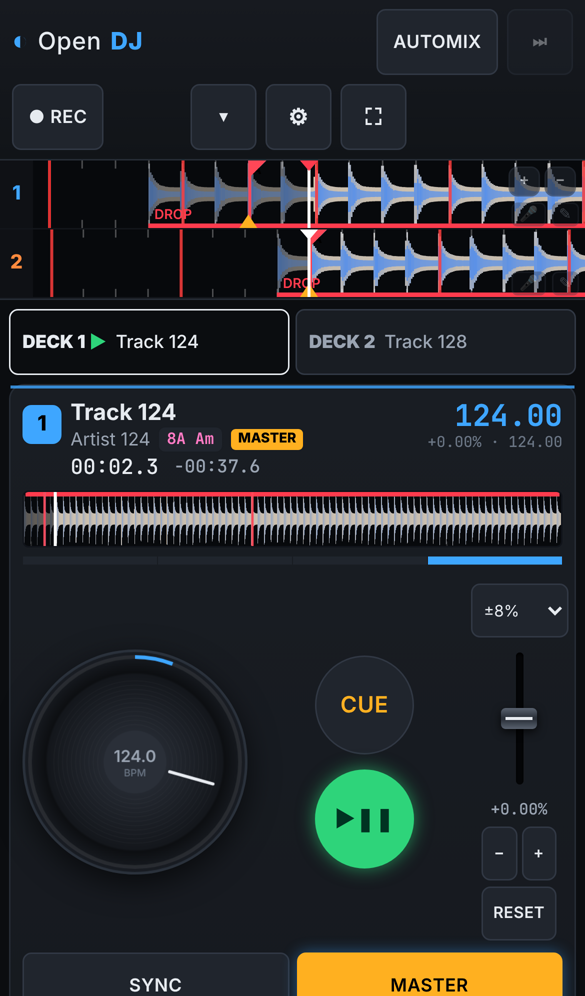
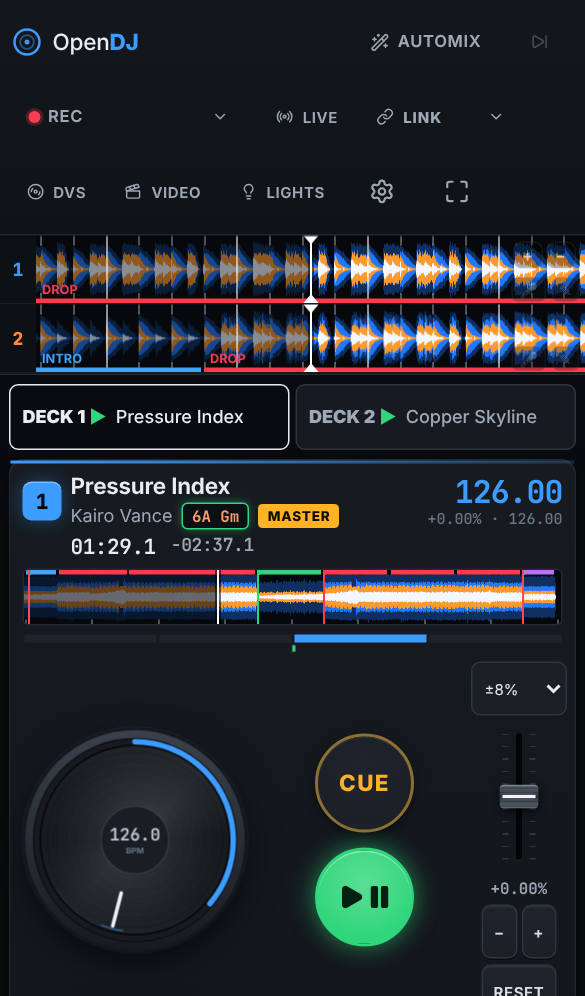
Mobile: new look on phone/tablet layouts, reproducible mobile screenshots
- Knob centre-detent tick sits on the value ring (it crossed the label above
  in the stacked phone/tablet mixer); labels keep 1 px clear of the next ring.
- scripts/demo/mobile-screenshots.mjs regenerates docs/images/mobile-*.png
  (iPhone 13 portrait + landscape, iPad landscape) from the demo library.

Claude-Session: https://claude.ai/code/session_01GYpabNfQVY2oeh4ZNF43BP

diff --git a/public/css/app.css b/public/css/app.css
@@ -214,7 +214,7 @@ body:not(.four-decks) .deck-col > .deck:nth-child(2) { display: none; }
 .knob::before { content: ''; position: absolute; inset: -4px; border-radius: 50%; pointer-events: none;
   background: conic-gradient(from var(--arc-a), var(--arc-c) 0deg var(--arc-b), transparent var(--arc-b)), conic-gradient(from -135deg, var(--led-off) 0deg 270deg, transparent 270deg);
   -webkit-mask: radial-gradient(circle, transparent 61%, #000 63%, #000 73%, transparent 75%); mask: radial-gradient(circle, transparent 61%, #000 63%, #000 73%, transparent 75%); }
-.knob.bipolar::after { content: ''; position: absolute; left: 50%; top: -6px; width: 2px; height: 3px; margin-left: -1px; border-radius: 1px; background: var(--text-3); pointer-events: none; }
+.knob.bipolar::after { content: ''; position: absolute; left: 50%; top: -4px; width: 2px; height: 3px; margin-left: -1px; border-radius: 1px; background: var(--text-3); pointer-events: none; }
 .knob.bipolar.off-center::after { background: var(--line-2); }
 .knob-md { width: 34px; height: 34px; }
 .knob-sm { width: 26px; height: 26px; }

diff --git a/public/css/performance.css b/public/css/performance.css
@@ -223,4 +223,4 @@
 :root.w1300 .deck-stems .stem-cell { flex: 1 1 45%; }
 
 /* ---- knob value rings sit 4 px outside the cap: keep the labels clear of them ---- */
-.knob-wrap > .knob + .knob-label { margin-top: 3px; line-height: 1.1; }
+.knob-wrap > .knob + .knob-label { margin-top: 3px; margin-bottom: 1px; line-height: 1.1; }
